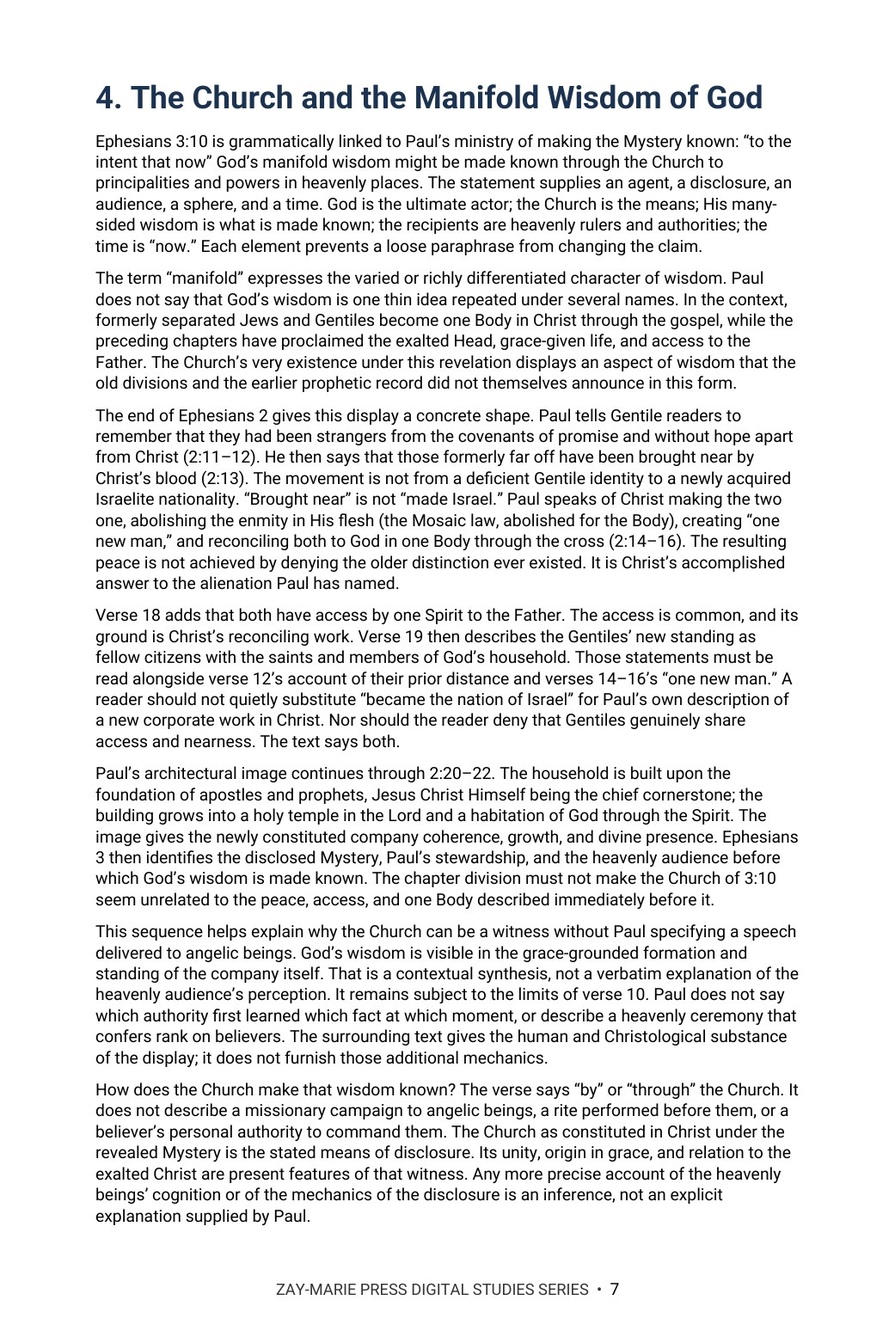
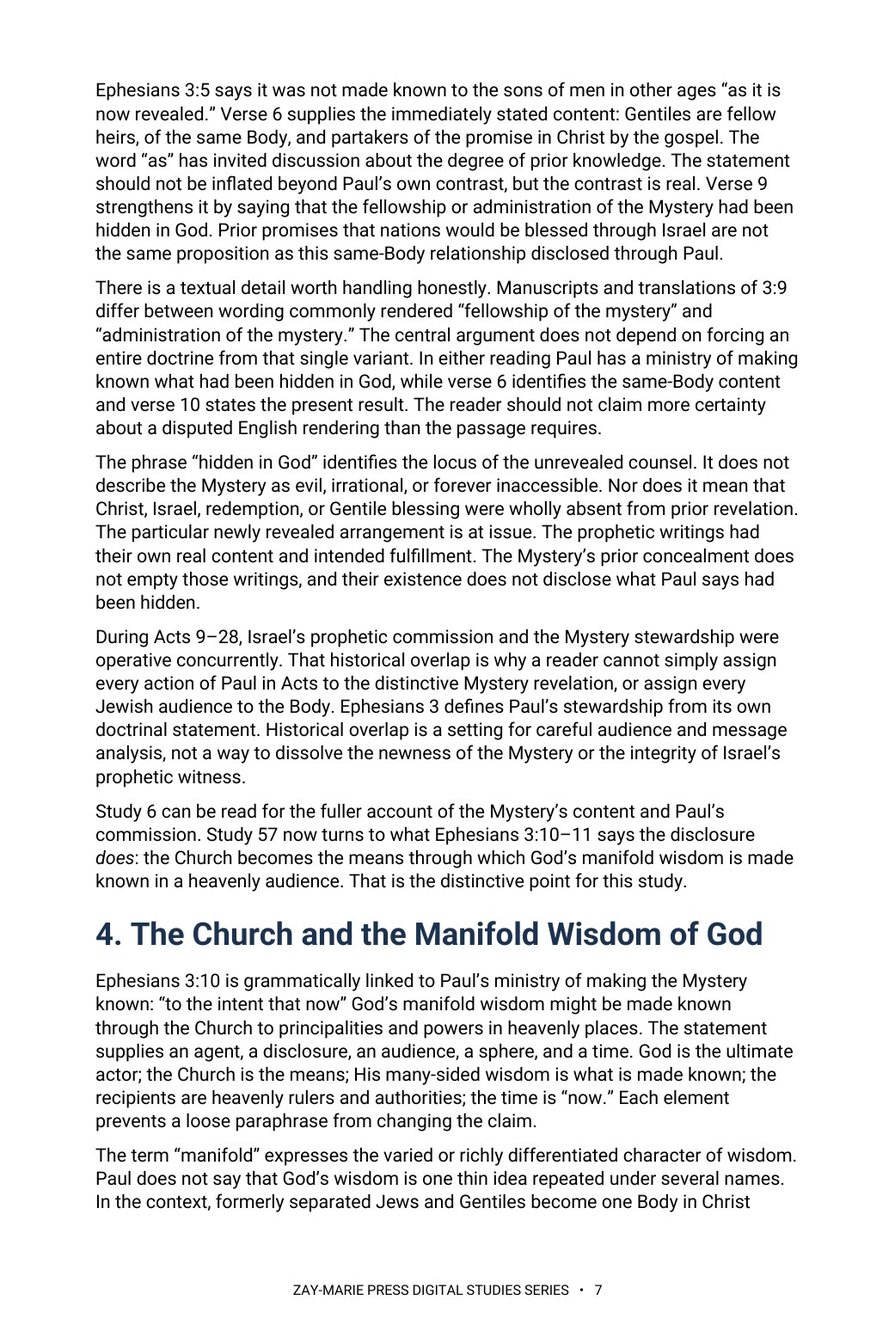
Study 57: rebuild at 10 pt (20 pages), retrofit edits, previews 2/3/7; trackers v1.70/v1.164
Claude-Session: https://claude.ai/code/session_01KcENxFzE91mCRyTPWhcwnE

Changed region(s): [[0.0922, 0.0615, 0.8915, 0.9219], [0.3074, 0.9526, 0.6455, 0.9834]]

diff --git a/study-57-the-eternal-purpose-of-god.html b/study-57-the-eternal-purpose-of-god.html
@@ -1,13 +1,13 @@
 <!doctype html>
-<html lang="en"><head><meta charset="utf-8"><meta name="viewport" content="width=device-width,initial-scale=1"><title>The Eternal Purpose of God | Zay-Marie Press</title><meta name="description" content="Study 57 traces God’s eternal purpose in Christ, the Mystery revealed through Paul, and the Church’s present witness of His wisdom. Preview the 16-page study."><link rel="stylesheet" href="styles.css?v=20260921-4"><link rel="icon" type="image/png" href="assets/zay-marie-press-favicon.png"><style>
+<html lang="en"><head><meta charset="utf-8"><meta name="viewport" content="width=device-width,initial-scale=1"><title>The Eternal Purpose of God | Zay-Marie Press</title><meta name="description" content="Study 57 traces God’s eternal purpose in Christ, the Mystery revealed through Paul, and the Church’s present witness of His wisdom. Preview the 20-page study."><link rel="stylesheet" href="styles.css?v=20260921-4"><link rel="icon" type="image/png" href="assets/zay-marie-press-favicon.png"><style>
 .study-detail-page{background:#fff;color:#252525}.detail-hero{background:linear-gradient(135deg,#f8f5ec,#e3ece2);padding:58px 0}.detail-hero-grid{display:grid;grid-template-columns:minmax(250px,.72fr) minmax(0,1.28fr);gap:58px;align-items:center}.detail-cover{max-width:390px;margin:auto}.detail-cover img{display:block;width:100%;height:auto;box-shadow:0 14px 36px rgba(8,45,69,.18)}.detail-hero h1{font-size:clamp(2.7rem,5vw,4.7rem);line-height:1.02;margin:8px 0 10px;color:#143823}.detail-subtitle{font-family:Georgia,serif;font-size:1.35rem;font-weight:700;color:#082d45;margin:0 0 7px}.detail-kicker{font-family:Georgia,serif;font-style:italic;font-size:1.05rem;color:#4a4a44;margin:0 0 22px}.detail-copy{font-size:1.08rem;line-height:1.65;max-width:760px}.detail-buyline{display:flex;align-items:center;gap:18px;flex-wrap:wrap;margin-top:25px}.detail-price{font-family:Georgia,serif;font-size:2rem;font-weight:700;color:#143823}.detail-format,.preview-card .page-no{font-family:Arial,sans-serif;font-size:.76rem;font-weight:700;letter-spacing:.1em;text-transform:uppercase;color:#176b3a}.detail-button{display:inline-block;background:#176b3a;color:#fff;padding:13px 22px;font-family:Arial,sans-serif;font-size:.8rem;font-weight:700;letter-spacing:.07em;text-transform:uppercase}.detail-button.pending{opacity:.72;cursor:default}.detail-section{padding:66px 0}.detail-section.soft{background:#f6f7f2}.detail-section.cream{background:#faf8f2}.detail-section h2{color:#143823;margin:6px 0 18px;font-size:clamp(2rem,3.4vw,3rem)}.detail-section .lead{max-width:920px;font-size:1.1rem;line-height:1.62}.study-distinction{max-width:920px;margin-top:28px;margin-bottom:28px;padding:26px 28px;background:#fff;border:1px solid #d8d1bf;border-left:4px solid #b8871c}.study-distinction h3{margin:0 0 10px;color:#143823}.study-distinction p{margin:0 0 14px;line-height:1.62}.study-distinction a{font-family:Arial,sans-serif;font-weight:700;color:#176b3a;text-decoration:none}.study-points{display:grid;grid-template-columns:repeat(3,1fr);gap:18px;margin-top:28px;margin-bottom:28px}.study-point,.scripture-card,.preview-card,.include-item{background:#fff;border:1px solid var(--line);text-align:left}.study-point{border-top:3px solid #176b3a;padding:22px}.study-point h3{color:#143823;margin:0 0 8px;font-size:1.2rem}.study-point p,.scripture-card p,.preview-card p,.include-item p{margin:0;line-height:1.55}.scripture-grid{display:grid;grid-template-columns:repeat(4,1fr);gap:14px;margin-top:24px;margin-bottom:24px}.scripture-card{padding:22px 20px;color:#143823}.scripture-card h3{margin:0 0 9px;font-family:Georgia,serif;font-size:1rem;line-height:1.35}.scripture-card p{font-size:.94rem;color:#45453f}.excerpt{max-width:900px;margin:28px auto;border-left:4px solid #b8871c;padding:10px 0 10px 28px}.excerpt blockquote{font-family:Georgia,serif;font-size:clamp(1.45rem,2.5vw,2rem);line-height:1.45;color:#143823;margin:0 0 16px}.excerpt p{line-height:1.6;margin:0}.preview-grid{display:grid;grid-template-columns:repeat(2,1fr);gap:20px;margin-top:28px;margin-bottom:28px}.preview-card{padding:18px;min-height:210px;box-shadow:0 7px 20px rgba(20,40,25,.05)}.preview-image-link{display:block;margin:0 0 18px}.preview-image-link img{display:block;width:100%;height:auto;border:1px solid #d8d1bf;box-shadow:0 8px 22px rgba(20,40,25,.1);transition:transform .18s ease,box-shadow .18s ease}.preview-image-link:hover img{transform:translateY(-2px);box-shadow:0 11px 28px rgba(20,40,25,.16)}.preview-card h3{color:#143823;margin:8px 0 10px}.preview-instruction{margin:10px 0 0;font-family:Arial,sans-serif;font-size:.78rem;letter-spacing:.04em;color:#5b5b55}.includes-grid{display:grid;grid-template-columns:repeat(4,1fr);gap:14px;margin-top:26px}.include-item{padding:22px 20px;color:#143823}.include-item h3{margin:0 0 9px;font-family:Arial,sans-serif;font-size:.86rem;line-height:1.35;letter-spacing:.02em}.include-item p{font-size:.94rem;color:#45453f}.final-buy{background:#082d45;color:#fff;border-top:4px solid #b8871c;padding:42px 48px;display:grid;grid-template-columns:1fr auto;gap:36px;align-items:center}.final-buy .eyebrow,.final-buy h2,.final-buy .detail-price{color:#fff}.final-buy h2{margin:7px 0 6px}.final-buy p{margin:0}.final-offer{text-align:center}.back-link{display:inline-block;margin-top:18px;color:#143823;font-family:Arial,sans-serif;font-weight:700;text-decoration:none}.preview-lightbox{position:fixed;inset:0;z-index:10000;display:none;align-items:flex-start;justify-content:center;background:rgba(8,22,16,.88);padding:24px;overflow:auto}.preview-lightbox.open{display:flex}.preview-lightbox img{display:block;width:auto;height:auto;max-width:none;box-shadow:0 18px 55px rgba(0,0,0,.4);background:#fff}.preview-lightbox-close{position:fixed;top:18px;right:24px;z-index:10001;width:46px;height:46px;border:1px solid rgba(255,255,255,.65);border-radius:50%;background:rgba(0,0,0,.55);color:#fff;font:32px/1 Arial,sans-serif;cursor:pointer}@media(max-width:900px){.detail-hero-grid{grid-template-columns:1fr;gap:34px}.detail-cover{max-width:330px}.study-points{grid-template-columns:repeat(2,1fr)}.scripture-grid,.includes-grid{grid-template-columns:repeat(2,1fr)}.preview-grid,.final-buy{grid-template-columns:1fr}.final-offer{text-align:left}}@media(max-width:560px){.detail-hero{padding:42px 0}.detail-section{padding:50px 0}.study-points,.scripture-grid,.includes-grid{grid-template-columns:1fr}.final-buy{padding:32px 24px}.detail-buyline{align-items:flex-start;flex-direction:column;gap:8px}.preview-lightbox{padding:58px 10px 24px}.preview-lightbox img{width:100%;max-width:100%;height:auto}} .detail-hero h1{font-size:clamp(2.1rem,4.2vw,3.7rem);line-height:1.08}</style></head><body class="study-detail-page">
 <header class="site-header"><div class="wrap nav"><a class="logo" href="index.html" aria-label="Zay-Marie Press home"><img src="assets/zay-marie-press-logo-hq.png" alt="Zay-Marie Press" width="420" height="238"></a><button class="menu-toggle" type="button" aria-expanded="false" aria-controls="primary-nav">MENU</button><nav aria-label="Primary navigation" class="primary-nav" id="primary-nav"><a href="index.html">HOME</a><a href="books.html">BOOKS</a><a href="series.html">SERIES</a><a class="active" aria-current="page" href="digital-studies.html">DIGITAL STUDIES</a><a href="biblical-hermeneutics-course.html">COURSE</a><a href="about.html">ABOUT</a><a href="resources.html">RESOURCES</a><a href="contact.html">CONTACT</a></nav></div></header><main>
-<section class="detail-hero"><div class="wrap detail-hero-grid"><div class="detail-cover"><picture><source srcset="assets/study-57-cover.webp" type="image/webp"><img src="assets/study-57-cover.jpg" alt="The Eternal Purpose of God — Study 57 cover"></picture></div><div><div class="eyebrow">STUDY 57 · DIGITAL STUDY</div><h1>The Eternal Purpose of God</h1><p class="detail-subtitle">The Mystery Hidden in God, His Wisdom Displayed Through the Body, and All Things in Christ</p><p class="detail-kicker">What was purposed before the ages, and what is now made known?</p><p class="detail-copy">Ephesians says that God purposed in Christ before the ages, kept the Mystery hidden in Himself, and now makes His manifold wisdom known through the Church. Study 57 follows the relationship between purpose, disclosure, present witness, and the fullness of times.</p><p class="detail-copy">It reads Christ’s comprehensive headship alongside the distinct promises and recipients Scripture names. The study tests what Ephesians 3:10–11 actually says about the Church’s witness before heavenly authorities without adding an unstated command or governmental office.</p><div class="detail-buyline"><span class="detail-price">$5.99</span><span class="detail-format">Digital PDF · 16 Pages</span><span class="detail-button pending" aria-disabled="true">Checkout Coming Soon</span></div></div></div></section>
+<section class="detail-hero"><div class="wrap detail-hero-grid"><div class="detail-cover"><picture><source srcset="assets/study-57-cover.webp" type="image/webp"><img src="assets/study-57-cover.jpg" alt="The Eternal Purpose of God — Study 57 cover"></picture></div><div><div class="eyebrow">STUDY 57 · DIGITAL STUDY</div><h1>The Eternal Purpose of God</h1><p class="detail-subtitle">The Mystery Hidden in God, His Wisdom Displayed Through the Body, and All Things in Christ</p><p class="detail-kicker">What was purposed before the ages, and what is now made known?</p><p class="detail-copy">Ephesians says that God purposed in Christ before the ages, kept the Mystery hidden in Himself, and now makes His manifold wisdom known through the Church. Study 57 follows the relationship between purpose, disclosure, present witness, and the fullness of times.</p><p class="detail-copy">It reads Christ’s comprehensive headship alongside the distinct promises and recipients Scripture names. The study tests what Ephesians 3:10–11 actually says about the Church’s witness before heavenly authorities without adding an unstated command or governmental office.</p><div class="detail-buyline"><span class="detail-price">$5.99</span><span class="detail-format">Digital PDF · 20 Pages</span><span class="detail-button pending" aria-disabled="true">Checkout Coming Soon</span></div></div></div></section>
 <section class="detail-section"><div class="wrap"><div class="eyebrow">ABOUT THIS STUDY</div><h2>Purpose Before the Ages, Wisdom Displayed Now</h2><p class="lead">God’s prior purpose and its historical disclosure are related, but they answer different questions. Ephesians 1 describes His will in Christ and the fullness of times; Ephesians 3 says the Mystery was hidden in God and now revealed through Paul, with wisdom made known through the Church. This study traces those claims in their contexts and marks the limits of what they establish about the ages to come.</p><p class="lead">Study 6 explains the content and timing of the Mystery’s revelation. Study 5 surveys the Body’s heavenly calling, Study 30 examines its present seating with Christ, and Study 56 asks what inheritance passages grant. Study 57 joins these questions around Ephesians 3:10–11: why does the revealed Body now display God’s wisdom, and how does that present witness accord with His eternal purpose? It does not turn the Church’s witness into an unstated commission over heavenly powers or transfer Israel’s covenants to the Body.</p>
 <div class="study-distinction"><h3>How These Studies Relate</h3><p>Study 57 asks how God’s purpose in Christ relates to the Mystery’s disclosure, the Church’s present witness, and the future fullness. The neighboring studies supply the narrower claims this synthesis must respect.</p><p><a href="study-06-the-mystery-revealed-through-paul.html">Study 6 — The Mystery Revealed Through Paul</a> Establish what was hidden and disclosed through Paul; then use Study 57 to ask what Ephesians 3:10–11 says that disclosure now displays.</p><p><a href="study-05-the-heavenly-calling.html">Study 5 — The Heavenly Calling</a> Survey the Body’s blessings, identity, and hope before asking how this calling fits God’s larger purpose in Christ.</p><p><a href="study-30-seated-with-christ-in-heavenly-places.html">Study 30 — Seated With Christ in Heavenly Places</a> Test what Ephesians 2:6 establishes about present position before drawing conclusions about rule or jurisdiction from Ephesians 3:10.</p><p><a href="study-56-inheritance.html">Study 56 — Inheritance</a> Identify what inheritance texts actually promise before reading Ephesians 1:11 and Christ’s headship as a transfer of Israel’s named land grant.</p><p class="connection-guide-link"><a href="study-connections.html#study-57">Explore the full connection guide for Study 57 →</a></p></div>
 <div class="eyebrow">WHAT YOU’LL STUDY</div><h2>Follow the Claims in Ephesians</h2><div class="study-points"><div class="study-point"><h3>Purpose and Disclosure</h3><p>Trace the time markers “before,” “hid,” “now” and “ages to come” across Ephesians 1–3 to separate what God purposed from what Paul says was hidden and revealed.</p></div><div class="study-point"><h3>The Fullness of Times</h3><p>Read Ephesians 1:9–11 and 1:20–23 clause by clause, noting the scope of “all things” and each recipient the text names.</p></div><div class="study-point"><h3>The Mystery Hidden in God</h3><p>Follow Ephesians 3:1–9 in order, noting Paul’s stewardship, the content stated in verse 6, and the phrase “hid in God.”</p></div><div class="study-point"><h3>Wisdom Made Known</h3><p>Read Ephesians 3:10–11 grammatically, marking the agent, means, audience, sphere and time.</p></div><div class="study-point"><h3>Christ’s Headship</h3><p>Test headship claims against the passages that name distinct addressees, promises and commissions.</p></div><div class="study-point"><h3>Limits of the Text</h3><p>Sort claims into explicit teaching, textual synthesis, responsible inference and unsupported specification.</p></div></div>
 <div class="eyebrow">KEY SCRIPTURES</div><h2>Read Purpose, Revelation, and Witness Together</h2><div class="scripture-grid"><div class="scripture-card"><h3>Ephesians 1:3–14</h3><p>Mark God’s purposed will, the fullness of times, and the hearing, believing and sealing.</p></div><div class="scripture-card"><h3>Ephesians 1:15–23</h3><p>Note the scope of Christ’s exaltation and what is said of the Church.</p></div><div class="scripture-card"><h3>Ephesians 2:1–10</h3><p>Compare present seating in 2:6 with the future display stated in 2:7.</p></div><div class="scripture-card"><h3>Ephesians 3:1–12</h3><p>Trace the stewardship, the content of verse 6, “hid in God,” and the agent and audience of verse 10.</p></div><div class="scripture-card"><h3>2 Timothy 1:8–12</h3><p>Contrast what was given before the ages with what is now made manifest.</p></div><div class="scripture-card"><h3>Titus 1:1–3</h3><p>Note the promise before the ages and its manifestation in due times.</p></div><div class="scripture-card"><h3>Colossians 1:24–29</h3><p>Mark the concealment, the manifestation, and the recipients named.</p></div><div class="scripture-card"><h3>Romans 11:25–29</h3><p>Mark the time marker, the named covenant recipients, and the claim about God’s gifts and calling.</p></div></div>
 <div class="eyebrow">FROM THE STUDY</div><h2>The Question Behind the Passage</h2><div class="excerpt"><blockquote>Intention and disclosure are not the same event.</blockquote><p>God’s purpose was prior; the Mystery was hidden until its appointed revelation. The study reads both statements without making prior intention equal prior public announcement.</p></div>
 <div class="eyebrow">A LOOK INSIDE</div><h2>Preview the Study Before You Purchase</h2><p class="preview-instruction">Click any page to enlarge it for reading.</p><div class="preview-grid"><div class="preview-card"><a class="preview-image-link" data-preview-lightbox href="assets/study-57-page-2.jpg"><img src="assets/study-57-page-2.jpg" alt="Study 57 page 2: table of contents"></a><div class="page-no">Page 2</div><h3>Table of Contents</h3><p>See the study’s full structure and scope at a glance.</p></div><div class="preview-card"><a class="preview-image-link" data-preview-lightbox href="assets/study-57-page-3.jpg"><img src="assets/study-57-page-3.jpg" alt="Study 57 page 3: what you will learn and study goal"></a><div class="page-no">Page 3</div><h3>What You Will Learn</h3><p>See the study’s goal, outline, and the question it sets out to answer.</p></div><div class="preview-card"><a class="preview-image-link" data-preview-lightbox href="assets/study-57-page-7.jpg"><img src="assets/study-57-page-7.jpg" alt="Study 57 page 7: the Church and the manifold wisdom of God"></a><div class="page-no">Page 7</div><h3>The Church and God’s Wisdom</h3><p>Read Paul’s stated claim in Ephesians 3:10–11.</p></div></div>
-<div class="eyebrow">WHAT’S INCLUDED</div><h2>A Focused Study of Eternal Purpose</h2><div class="includes-grid"><div class="include-item"><h3>16-Page Digital PDF</h3><p>Approved cover and 15-page interior with a numbered table of contents.</p></div><div class="include-item"><h3>Nine Teaching Sections</h3><p>Move from prior purpose and disclosure to wisdom, headship, and future claims.</p></div><div class="include-item"><h3>Key Distinctions Table</h3><p>Compare what the texts establish with common conclusions they do not require.</p></div><div class="include-item"><h3>Interpretive Controls</h3><p>Keep audience, timing, stated agent, and the limits of each claim in view.</p></div><div class="include-item"><h3>Scripture-Tracing Exercise</h3><p>Record what was purposed, when it was disclosed, and what remains unstated.</p></div><div class="include-item"><h3>Teaching Outline and Further Study</h3><p>Use guided readings to test the argument against related studies.</p></div></div>
-<div class="final-buy"><div><div class="eyebrow">STUDY 57 · DIGITAL STUDY</div><h2>The Eternal Purpose of God</h2><p>16-page digital PDF · For personal use</p></div><div class="final-offer"><div class="detail-price">$5.99</div><span class="detail-button pending" aria-disabled="true">Checkout Coming Soon</span></div></div><a class="back-link" href="digital-studies.html">← Back to All Digital Studies</a></div></section></main><div class="preview-lightbox" id="preview-lightbox" role="dialog" aria-modal="true" aria-label="Expanded study preview"><button class="preview-lightbox-close" type="button" aria-label="Close preview">×</button><img id="preview-lightbox-image" alt=""></div><footer class="site-footer"><div class="wrap footer-grid"><div class="footer-about"><h3>Zay-Marie Press</h3><p class="footer-tagline"><em>Where the Bible Means What It Says.</em></p><p>Zay-Marie Press is a Christian theological publisher dedicated to producing doctrinally precise, carefully structured biblical resources that equip pastors, teachers, and serious students with clarity, depth, and Scripture-anchored truth.</p><p><a href="https://zaymariepress.com">zaymariepress.com</a><br><a href="mailto:info@zaymariepress.com">info@zaymariepress.com</a></p></div><div class="footer-column"><h3>Explore</h3><div class="footer-links-stacked"><a href="books.html">Books</a><br><a href="series.html">Series</a><br><a href="biblical-hermeneutics-course.html">Course</a><br><a href="digital-studies.html">Digital Studies</a><br><a href="resources.html">Resources</a><br><a href="bible-book-summaries.html">Bible Book Summaries</a><br><a href="doctrinal-packets.html">Doctrinal Packets</a><br><a href="historical-drift.html">Historical Drift</a><br><a href="about.html">About</a><br><a href="contact.html">Contact</a></div></div><div class="footer-column"><h3>Reader Support</h3><div class="footer-links-stacked"><a href="reader-support.html#faq">FAQ</a><br><a href="reader-support.html#shipping-returns">Shipping &amp; Returns</a><br><a href="reader-support.html#digital-downloads">Digital Downloads</a><br><a href="reader-support.html#contact-support">Contact Support</a></div></div><div class="footer-column"><h3>Acts Overlap</h3><p><strong>Acts Overlap Theology Series</strong></p><p><em>Two Distinct Streams. One Overlap.</em></p><p><a href="series.html">Series Overview</a></p></div></div><div class="wrap footer-bottom">© 2026 Zay-Marie Press. All rights reserved.</div></footer><script src="site.js"></script><script>const lightbox=document.getElementById('preview-lightbox'),lightboxImage=document.getElementById('preview-lightbox-image'),closeLightbox=()=>{lightbox.classList.remove('open');lightboxImage.src='';};document.querySelectorAll('[data-preview-lightbox]').forEach(link=>link.addEventListener('click',event=>{event.preventDefault();lightboxImage.src=link.href;lightboxImage.alt=link.querySelector('img').alt;lightbox.classList.add('open');}));document.querySelector('.preview-lightbox-close').addEventListener('click',closeLightbox);lightbox.addEventListener('click',event=>{if(event.target===lightbox)closeLightbox();});document.addEventListener('keydown',event=>{if(event.key==='Escape')closeLightbox();});</script></body></html>
+<div class="eyebrow">WHAT’S INCLUDED</div><h2>A Focused Study of Eternal Purpose</h2><div class="includes-grid"><div class="include-item"><h3>20-Page Digital PDF</h3><p>Approved cover and 19-page interior with a numbered table of contents.</p></div><div class="include-item"><h3>Nine Teaching Sections</h3><p>Move from prior purpose and disclosure to wisdom, headship, and future claims.</p></div><div class="include-item"><h3>Key Distinctions Table</h3><p>Compare what the texts establish with common conclusions they do not require.</p></div><div class="include-item"><h3>Interpretive Controls</h3><p>Keep audience, timing, stated agent, and the limits of each claim in view.</p></div><div class="include-item"><h3>Scripture-Tracing Exercise</h3><p>Record what was purposed, when it was disclosed, and what remains unstated.</p></div><div class="include-item"><h3>Teaching Outline and Further Study</h3><p>Use guided readings to test the argument against related studies.</p></div></div>
+<div class="final-buy"><div><div class="eyebrow">STUDY 57 · DIGITAL STUDY</div><h2>The Eternal Purpose of God</h2><p>20-page digital PDF · For personal use</p></div><div class="final-offer"><div class="detail-price">$5.99</div><span class="detail-button pending" aria-disabled="true">Checkout Coming Soon</span></div></div><a class="back-link" href="digital-studies.html">← Back to All Digital Studies</a></div></section></main><div class="preview-lightbox" id="preview-lightbox" role="dialog" aria-modal="true" aria-label="Expanded study preview"><button class="preview-lightbox-close" type="button" aria-label="Close preview">×</button><img id="preview-lightbox-image" alt=""></div><footer class="site-footer"><div class="wrap footer-grid"><div class="footer-about"><h3>Zay-Marie Press</h3><p class="footer-tagline"><em>Where the Bible Means What It Says.</em></p><p>Zay-Marie Press is a Christian theological publisher dedicated to producing doctrinally precise, carefully structured biblical resources that equip pastors, teachers, and serious students with clarity, depth, and Scripture-anchored truth.</p><p><a href="https://zaymariepress.com">zaymariepress.com</a><br><a href="mailto:info@zaymariepress.com">info@zaymariepress.com</a></p></div><div class="footer-column"><h3>Explore</h3><div class="footer-links-stacked"><a href="books.html">Books</a><br><a href="series.html">Series</a><br><a href="biblical-hermeneutics-course.html">Course</a><br><a href="digital-studies.html">Digital Studies</a><br><a href="resources.html">Resources</a><br><a href="bible-book-summaries.html">Bible Book Summaries</a><br><a href="doctrinal-packets.html">Doctrinal Packets</a><br><a href="historical-drift.html">Historical Drift</a><br><a href="about.html">About</a><br><a href="contact.html">Contact</a></div></div><div class="footer-column"><h3>Reader Support</h3><div class="footer-links-stacked"><a href="reader-support.html#faq">FAQ</a><br><a href="reader-support.html#shipping-returns">Shipping &amp; Returns</a><br><a href="reader-support.html#digital-downloads">Digital Downloads</a><br><a href="reader-support.html#contact-support">Contact Support</a></div></div><div class="footer-column"><h3>Acts Overlap</h3><p><strong>Acts Overlap Theology Series</strong></p><p><em>Two Distinct Streams. One Overlap.</em></p><p><a href="series.html">Series Overview</a></p></div></div><div class="wrap footer-bottom">© 2026 Zay-Marie Press. All rights reserved.</div></footer><script src="site.js"></script><script>const lightbox=document.getElementById('preview-lightbox'),lightboxImage=document.getElementById('preview-lightbox-image'),closeLightbox=()=>{lightbox.classList.remove('open');lightboxImage.src='';};document.querySelectorAll('[data-preview-lightbox]').forEach(link=>link.addEventListener('click',event=>{event.preventDefault();lightboxImage.src=link.href;lightboxImage.alt=link.querySelector('img').alt;lightbox.classList.add('open');}));document.querySelector('.preview-lightbox-close').addEventListener('click',closeLightbox);lightbox.addEventListener('click',event=>{if(event.target===lightbox)closeLightbox();});document.addEventListener('keydown',event=>{if(event.key==='Escape')closeLightbox();});</script></body></html>

diff --git a/site.js b/site.js
@@ -62,7 +62,7 @@ const resourceModal=document.querySelector('#resource-modal'), resourceModalTitl
 if(resourceModal&&resourceModalTriggers.length){const closeResourceModal=()=>{resourceModal.hidden=true;document.body.classList.remove('resource-modal-open');lastResourceTrigger?.focus();};resourceModalTriggers.forEach(trigger=>trigger.addEventListener('click',()=>{lastResourceTrigger=trigger;if(resourceModalTitle)resourceModalTitle.textContent=trigger.dataset.title||'Resource';if(resourceModalDescription)resourceModalDescription.textContent=trigger.dataset.description||'';if(resourceModalLink){resourceModalLink.href=trigger.dataset.href||'#';resourceModalLink.textContent=trigger.dataset.linkText||'OPEN RESOURCE';}resourceModal.hidden=false;document.body.classList.add('resource-modal-open');resourceModalClose?.focus();}));resourceModalClose?.addEventListener('click',closeResourceModal);resourceModal.addEventListener('click',e=>{if(e.target===resourceModal)closeResourceModal();});document.addEventListener('keydown',e=>{if(e.key==='Escape'&&!resourceModal.hidden)closeResourceModal();});}
 
 /* Display the verified final-PDF page count at the primary purchase decision point. */
-const digitalStudyPageCounts={1:17,2:19,3:16,4:18,5:16,6:16,7:14,8:13,9:16,10:20,11:15,12:15,13:19,14:15,15:15,16:16,17:18,18:18,19:16,20:16,21:17,22:16,23:14,24:16,25:17,26:16,27:16,28:16,29:19,30:17,31:18,32:19,33:18,34:16,35:16,36:16,37:16,38:16,39:16,40:16,41:16,42:16,43:20,44:16,45:16,46:20,47:16,48:16,49:17,50:16,51:16,52:19,53:19,54:16,55:20,56:20,57:16,58:16,59:20,60:15,61:16,62:16,63:16,64:16,65:16,66:16,67:16,68:16,69:16,70:16,71:16};
+const digitalStudyPageCounts={1:17,2:19,3:16,4:18,5:16,6:16,7:14,8:13,9:16,10:20,11:15,12:15,13:19,14:15,15:15,16:16,17:18,18:18,19:16,20:16,21:17,22:16,23:14,24:16,25:17,26:16,27:16,28:16,29:19,30:17,31:18,32:19,33:18,34:16,35:16,36:16,37:16,38:16,39:16,40:16,41:16,42:16,43:20,44:16,45:16,46:20,47:16,48:16,49:17,50:16,51:16,52:19,53:19,54:16,55:20,56:20,57:20,58:16,59:20,60:15,61:16,62:16,63:16,64:16,65:16,66:16,67:16,68:16,69:16,70:16,71:16};
 const digitalStudyMatch=window.location.pathname.match(/\/study-(\d+)-/i);
 const digitalStudyFormat=document.querySelector('.detail-hero .detail-format');
 if(digitalStudyMatch&&digitalStudyFormat){const studyNumber=Number(digitalStudyMatch[1]),pageCount=digitalStudyPageCounts[studyNumber];if(pageCount)digitalStudyFormat.textContent=`Digital PDF · ${pageCount} Pages`;}

diff --git a/CLAUDE.md b/CLAUDE.md
@@ -23,7 +23,7 @@ These are kept in the repo at `controlling-documents/` and are the current versi
 - As of v1.50 (publisher directive, 2026-10-03), the **What You Will Learn in This Study** section is always bulleted, never set as running paragraphs, written into this file in the same pass (Master Standard Section 3 item 4, Section 6 structure line, Section 22): a list of bullet points, each describing one process, textual marker or interpretive discipline the reader will practice (Section 17 still governs what they may say); at most one short lead-in line may stand above the bullets (for example, “By the end of this study, you should be able to:”); the Study Goal callout and the Study Outline keep their own forms. It governs every new study and every study rebuilt or retrofitted from now on; earlier studies take it when reopened or when the publisher directs. In every study check (Step 1), report whether the section is bulleted. First applied to Study 43.
 **`controlling-documents/Digital_Studies_Relationship_Map_v1.39.md`** — records each study's distinct subject, its related studies, the eight priced six-study collections, the Paul's Missionary Journeys cross-reference map, and the five primary catalog categories (currently version 1.39, covers Studies 1–71; update it as new studies publish, bump the version number, rename the file to match, and log the change in its own version-history table — mirroring the Master Standard's `_vX.Y` filename convention). Check a proposed topic against it before recommending or writing a new study. (2026-09-28: the file was missing from this repo despite this note referencing it; replaced from the publisher's copy and bumped v1.15→v1.25 in the same pass. If this note ever again points to a version not present under `controlling-documents/`, ask the publisher for a copy rather than proceeding without the check.)
 - **`controlling-documents/Digital_Studies_Category_Standard_v1.1.md`** — FINAL and binding (publisher, 2026-10-01): the rules for the five primary catalog categories (Foundations, Israel & Prophecy, Body of Christ, Passages, Doctrinal Themes), the ordered decision procedure for new studies, the precedents, all 71 fixed assignments, and the cover-label form for each category. Read it before placing any card or cover label. Do not ask the publisher where a study belongs; apply the procedure and state the result. Only the publisher changes a ruling; then bump this Standard's version and filename, re-letter the cover, and update the Relationship Map.
-- **`controlling-documents/Doctrinal_Upgrade_Retrofit_Plan_v1.69.md`** — working tracker for retrofitting Studies 1–59 to the 2026-10-02 doctrinal upgrade (Framework/PAM v1.1, Master Standard v1.40, Rules 7–17): withdrawn-wording search keys, impact tiers, waves and the per-study method. Read it before continuing the retrofit in any session; update status, bump the version and rename the file as work proceeds.
+- **`controlling-documents/Doctrinal_Upgrade_Retrofit_Plan_v1.70.md`** — working tracker for retrofitting Studies 1–59 to the 2026-10-02 doctrinal upgrade (Framework/PAM v1.1, Master Standard v1.40, Rules 7–17): withdrawn-wording search keys, impact tiers, waves and the per-study method. Read it before continuing the retrofit in any session; update status, bump the version and rename the file as work proceeds.
 - **`controlling-documents/Doctrinal_Packet_Standard_v0.3.md`** — Doctrinal Packet Standard (DRAFT; §7 approved). Governs the separate Doctrinal Packets product strand (5-page interpretive PDFs per Bible book — a print-friendly cover as page 1 plus 4 content pages, $2.99, KJV, pilot: Genesis, live at `packet-genesis.html`, hub `doctrinal-packets.html`; site pages say "5 Pages", cover styles live in `packets.css`, Old Testament blue and New Testament soft pale green, hub listed in Bible order). **Preview rule (publisher directive, 2026-09-29, packets only):** previews show about one page's worth in two cropped views (top of page 1 through the anchor texts; the chart section) — never the exegesis, architecture, Mystery contrast, logic chain, outline, or closing. Master Standard §16/§17 still govern Digital Studies. Bump the version and rename the file as the Standard is finalized.
 - **`controlling-documents/Preview_Page_Spoiler_Retrofit_Audit_v1.4.md`** — working tracker for the Studies 1–60 preview-page conclusion-spoiler retrofit (see the section below). Read it before continuing that audit in any session; update its status fields and changelog, bump the version, and rename the file to match as the audit proceeds — same `_vX.Y` convention as the other controlling documents. As of v1.1, the website-side half was DONE: all 60 studies' "What You'll Study" text was judged against the rule (methodology documented in the file) and 22 points across 11 studies were rewritten and pushed; an unrelated Study 22 content bug (Study 21's content had leaked into it) was also found and fixed. As of v1.2, the publisher supplied Studies 1–60's interior production PDFs and the interior-PDF half was also surveyed (read-only): 10 studies (37, 41, 45, 47, 48, 49, 51, 52, 53, 54) were found to have at least one interior "What You Will Learn" violation, 50 studies were confirmed compliant, and the orphaned `assets/study-45-sanctification-under-grace.docx` (removed from the repo per the publisher in v1.0) was confirmed word-for-word identical to Study 45's actual production interior PDF content. As of v1.3, the publisher supplied editable DOCX sources for all 10 violating studies; all 15 violating points were rewritten and approved, delivered as corrected final PDFs, and — along the way — a second defect was found and fixed (Studies 47 and 48's source DOCX still had an unintegrated cover placeholder despite both being long-published live with real covers; fixed by inserting the existing approved cover art). The website's "What You Will Learn" preview image (`study-NN-page-3.jpg`) was regenerated from the corrected content for all 10 studies and pushed to `main` (commit `cea1859`), verified against a fresh clone. **The website side of this audit is now fully compliant for all 60 studies.** Outstanding: the publisher's purchasable interior PDF files themselves have corrected versions delivered, but distribution to existing purchasers was decided by the publisher on 2026-09-29: silent swap of the files behind the existing downloads, no reissue notice (recorded in the v1.4 changelog entry; the product files are not in this repo).
 

diff --git a/controlling-documents/Doctrinal_Upgrade_Retrofit_Plan_v1.70.md b/controlling-documents/Doctrinal_Upgrade_Retrofit_Plan_v1.70.md
@@ -162,3 +162,4 @@ Working tracker for correcting published studies to the Framework/PAM v1.1, Mast
 - v1.67 (2026-10-03): Study 53 rebuilt at 10 pt (Roboto, current page) from the publisher’s older FINAL DOCX with the 2026-10-02 retrofit re-applied (13 "The Framework does not assign …" lines converted to reader-facing forms, Hebrews covenant-it-quotes form; Revelation anchor removed; Gal 3:13 anchor replaced by the standing Galatians 3 sentence; Romans 11 four boundaries and triad added in 2.4; Revelation 5:9 moved from Group 2 to Group 1 in Guided Further Study, with the Group 1 and Group 2 Compare lines adjusted). 19 pages (was 16). `site.js` 53:19; page-count text 16→19; previews 2, 3, 5 re-rendered at 1041×1562. Next: 10 pt resets for 55, 56, 57, 58 (DOCX on hand); 43 and 54 need DOCX; 42, 44, 45, 47, 48, 49, 50, 51 need Roboto finals or a rebuild.
 - v1.68 (2026-10-03): Study 55 rebuilt at 10 pt (Roboto, current page) from the publisher’s older FINAL DOCX with the 2026-10-02 retrofit re-applied (2 "The Framework does not assign …" lines converted; Colossians letter line added after the second paragraph of Section 6; withdrawn "gathered into the Body" overlap sentence in 5.3 replaced by the standing overlap sentence; withdrawn clarifier in Investigation 5 replaced by the standing remnant/Body sentence; Romans 11 four boundaries and triad added in 8.2; "and not a transfer" added to Acts 28 wording in 5.3 and 8.1). 20 pages (was 16). `site.js` 55:20; page-count text 16→20; previews 2, 3 and 9 (third moved from page 8 to 9: the appeal section; `study-55-page-8.jpg` removed). Next: 10 pt resets for 56, 57, 58 (DOCX on hand); 43 and 54 need DOCX; 42, 44, 45, 47, 48, 49, 50, 51 need Roboto finals or a rebuild.
 - v1.69 (2026-10-03): Study 56 rebuilt at 10 pt (Roboto, current page) from the publisher’s older FINAL DOCX with the 2026-10-02 retrofit re-applied (1 Peter and Hebrews "The Framework does not assign …" lines converted, Hebrews to the covenant-it-quotes form; Colossians letter line added after the Colossians 3:24 paragraph; withdrawn Galatians 3 "participate spiritually" wording replaced by the standing Galatians 3 sentence; withdrawn "gathered into the Body" overlap sentence (§8, §9) replaced by the standing overlap sentence; withdrawn clarifier in Ephesians 1 (§6) replaced by the standing remnant/Body sentence; "and not a transfer" added to the Acts 28 wording in §2 and §9; "this framework" reworded to "these distinctions"). 20 pages (was 16). `site.js` 56:20; page-count text 16→20 (hero, meta description, buy panel, What’s Included 15→19 interior); previews 2, 3 and 4 re-rendered at 1041×1562. Next: 10 pt resets for 57, 58 (DOCX on hand); 43 and 54 need DOCX; 42, 44, 45, 47, 48, 49, 50, 51 need Roboto finals or a rebuild.
+- v1.70 (2026-10-03): Study 57 rebuilt at 10 pt (Roboto, current page) from the publisher’s older FINAL DOCX with the 2026-10-02 retrofit re-applied (2 Timothy "The Framework does not assign …" line converted; "Acts Overlap framework" working term removed in the Introduction and the third-pass Investigation; withdrawn "gathered into the Body" overlap sentence (§7) replaced by the standing overlap sentence; "and not a transfer" added to the Acts 28 wording in the Introduction and §7; Romans 11 four boundaries and triad added after the Romans 11:25 line in the third pass). 20 pages (was 16); the imprint first fell alone on page 20 and was fixed with layout-only keep-together (the Final Synthesis heading and paragraph move to page 20 with it; TOC 19→20 for that entry). `site.js` 57:20; page-count text 16→20 (hero, meta description, buy panel, What’s Included 15→19 interior); previews 2, 3 and 7 re-rendered at 1041×1562. Next: 10 pt reset for 58 (DOCX on hand); 43 and 54 need DOCX; 42, 44, 45, 47, 48, 49, 50, 51 need Roboto finals or a rebuild.

diff --git a/controlling-documents/Digital_Studies_PAM_Audit_v1.164.md b/controlling-documents/Digital_Studies_PAM_Audit_v1.164.md
@@ -393,3 +393,4 @@ Study 15 PDF not yet supplied. Typography: none of Studies 2, 3, 6, 8 is in EB G
 - v1.161 (2026-10-03): Study 53 rebuilt at 10 pt, 19 pages (see Retrofit Plan v1.67).
 - v1.162 (2026-10-03): Study 55 rebuilt at 10 pt, 20 pages (see Retrofit Plan v1.68).
 - v1.163 (2026-10-03): Study 56 rebuilt at 10 pt, 20 pages (see Retrofit Plan v1.69).
+- v1.164 (2026-10-03): Study 57 rebuilt at 10 pt, 20 pages (see Retrofit Plan v1.70).
